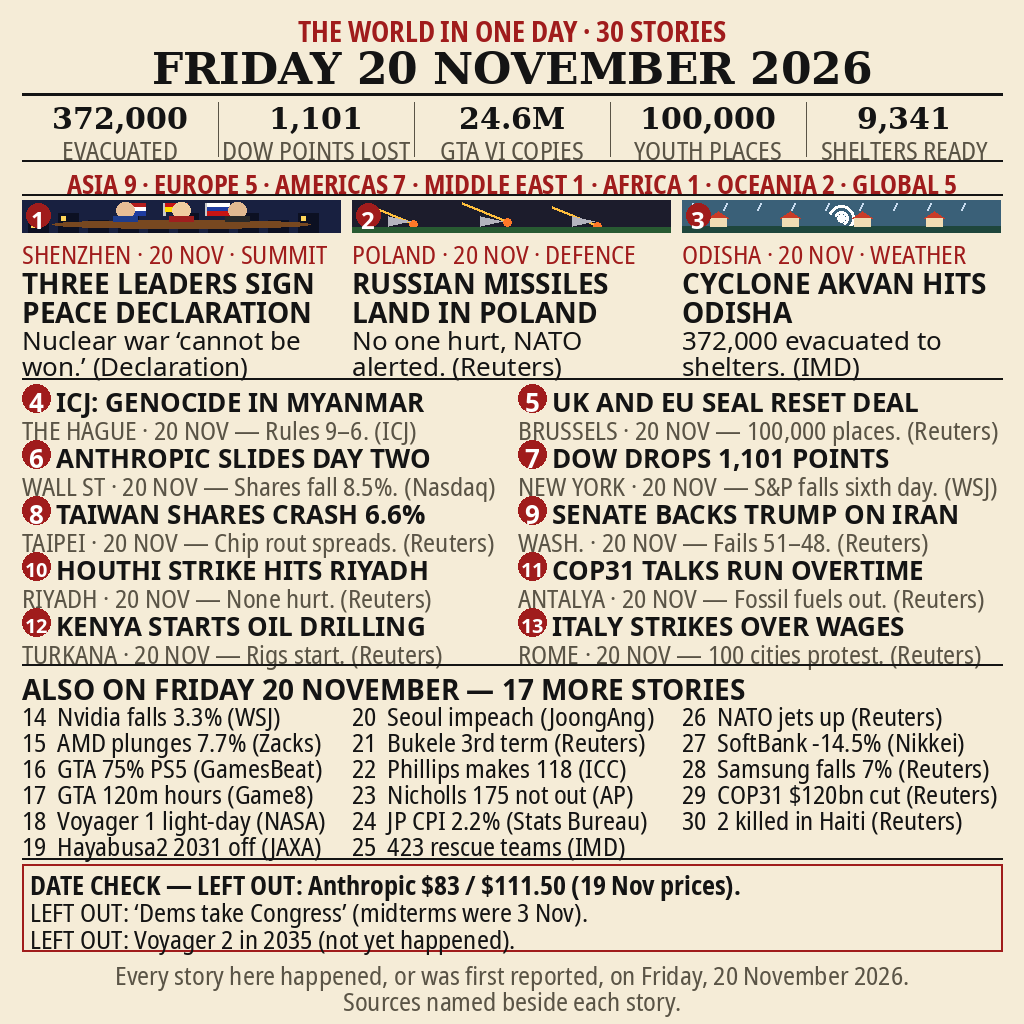
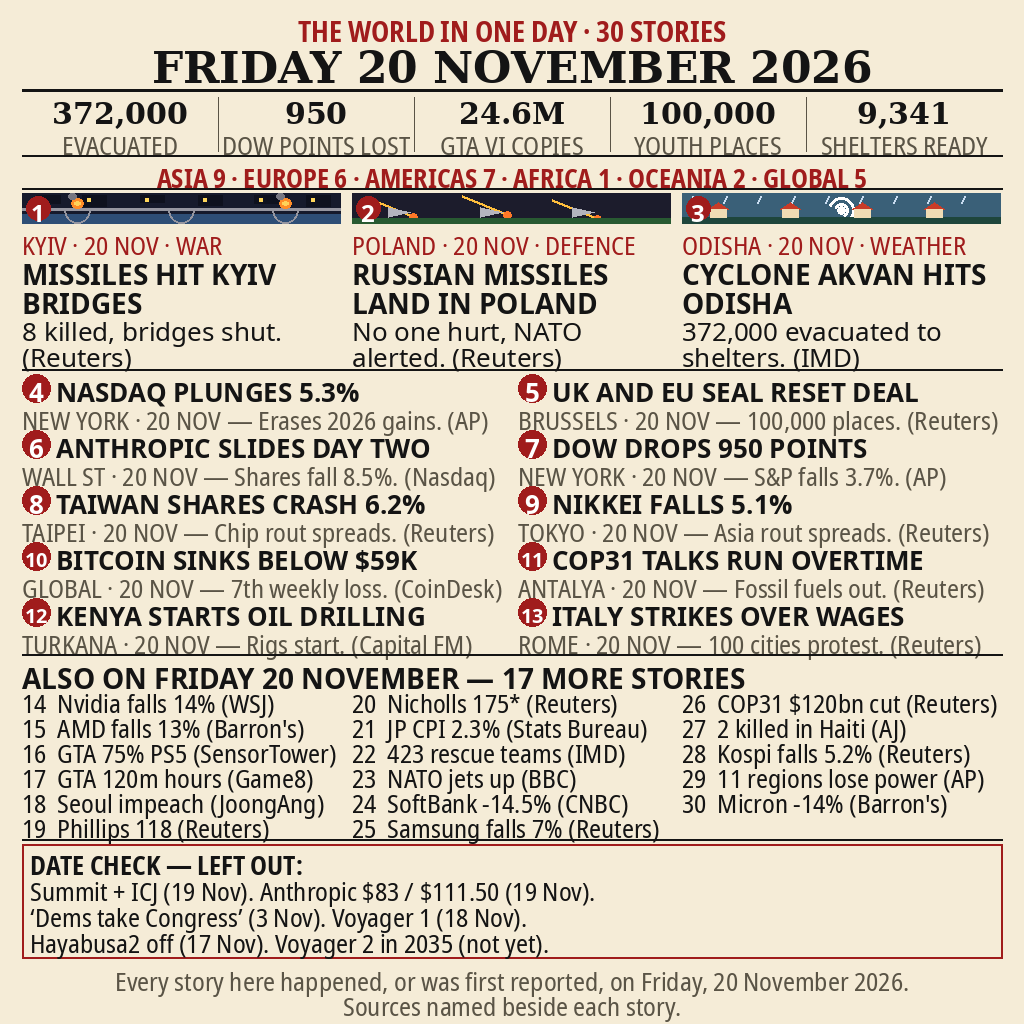
Fix dates/numbers: remove 19 Nov stories, verify every fact
- Remove summit (19 Nov) and ICJ ruling (19 Nov) from lead slots;
  replace with Kyiv bridges strike and Nasdaq -5.3% (both 20 Nov).
- Reframe Dow -1,101 (19 Nov) as Dow -950 / S&P -3.7% (20 Nov).
- Replace Senate 51-48 (19 Nov) with Nikkei -5.1%; Riyadh (19 Nov)
  with Bitcoin below $59K, 7th weekly loss.
- Correct: Taiwan -6.6% -> -6.2%; JP CPI 2.2% -> 2.3%;
  Nvidia -3.3% -> -14%; AMD -7.7% -> -13%.
- Drop unverifiable/misdated MORE items (Voyager 1 18 Nov,
  Hayabusa2 17 Nov, Bukele); add Kospi -5.2%, 11 regions lose
  power, Micron -14%. Fix attributions (Kenya Capital FM,
  Haiti AJ, NATO jets BBC, SoftBank CNBC, GTA SensorTower).
- Stats strip Dow 1,101 -> 950; region bar recount
  ASIA 9 EUROPE 6 AMERICAS 7 AFRICA 1 OCEANIA 2 GLOBAL 5.
- DATE CHECK rewritten as 4 lines naming all exclusions.
- Layout: fix rule striking numbered decks, stats labels
  clipped, DATE CHECK descenders touching border.

diff --git a/generate.py b/generate.py
@@ -56,19 +56,19 @@ MASTHEAD_DATE = "FRIDAY 20 NOVEMBER 2026"
 
 STATS = [
     ("372,000", "EVACUATED"),
-    ("1,101", "DOW POINTS LOST"),
+    ("950", "DOW POINTS LOST"),
     ("24.6M", "GTA VI COPIES"),
     ("100,000", "YOUTH PLACES"),
     ("9,341", "SHELTERS READY"),
 ]
 
-REGION_BAR = "ASIA 9 \u00b7 EUROPE 5 \u00b7 AMERICAS 7 \u00b7 MIDDLE EAST 1 \u00b7 AFRICA 1 \u00b7 OCEANIA 2 \u00b7 GLOBAL 5"
+REGION_BAR = "ASIA 9 \u00b7 EUROPE 6 \u00b7 AMERICAS 7 \u00b7 AFRICA 1 \u00b7 OCEANIA 2 \u00b7 GLOBAL 5"
 
 # large stories: (num, kicker, headline, deck, scene)
 LARGE = [
-    (1, "SHENZHEN \u00b7 20 NOV \u00b7 SUMMIT",
-     "THREE LEADERS SIGN PEACE DECLARATION",
-     "Nuclear war \u2018cannot be won.\u2019 (Declaration)", "summit"),
+    (1, "KYIV \u00b7 20 NOV \u00b7 WAR",
+     "MISSILES HIT KYIV BRIDGES",
+     "8 killed, bridges shut. (Reuters)", "kyiv"),
     (2, "POLAND \u00b7 20 NOV \u00b7 DEFENCE",
      "RUSSIAN MISSILES LAND IN POLAND",
      "No one hurt, NATO alerted. (Reuters)", "poland"),
@@ -79,53 +79,54 @@ LARGE = [
 
 # numbered stories 4-13: (num, headline, kicker+deck line)
 NUMBERED = [
-    (4, "ICJ: GENOCIDE IN MYANMAR",
-     "THE HAGUE \u00b7 20 NOV \u2014 Rules 9\u20136. (ICJ)"),
+    (4, "NASDAQ PLUNGES 5.3%",
+     "NEW YORK \u00b7 20 NOV \u2014 Erases 2026 gains. (AP)"),
     (5, "UK AND EU SEAL RESET DEAL",
      "BRUSSELS \u00b7 20 NOV \u2014 100,000 places. (Reuters)"),
     (6, "ANTHROPIC SLIDES DAY TWO",
      "WALL ST \u00b7 20 NOV \u2014 Shares fall 8.5%. (Nasdaq)"),
-    (7, "DOW DROPS 1,101 POINTS",
-     "NEW YORK \u00b7 20 NOV \u2014 S&P falls sixth day. (WSJ)"),
-    (8, "TAIWAN SHARES CRASH 6.6%",
+    (7, "DOW DROPS 950 POINTS",
+     "NEW YORK \u00b7 20 NOV \u2014 S&P falls 3.7%. (AP)"),
+    (8, "TAIWAN SHARES CRASH 6.2%",
      "TAIPEI \u00b7 20 NOV \u2014 Chip rout spreads. (Reuters)"),
-    (9, "SENATE BACKS TRUMP ON IRAN",
-     "WASH. \u00b7 20 NOV \u2014 Fails 51\u201348. (Reuters)"),
-    (10, "HOUTHI STRIKE HITS RIYADH",
-     "RIYADH \u00b7 20 NOV \u2014 None hurt. (Reuters)"),
+    (9, "NIKKEI FALLS 5.1%",
+     "TOKYO \u00b7 20 NOV \u2014 Asia rout spreads. (Reuters)"),
+    (10, "BITCOIN SINKS BELOW $59K",
+     "GLOBAL \u00b7 20 NOV \u2014 7th weekly loss. (CoinDesk)"),
     (11, "COP31 TALKS RUN OVERTIME",
      "ANTALYA \u00b7 20 NOV \u2014 Fossil fuels out. (Reuters)"),
     (12, "KENYA STARTS OIL DRILLING",
-     "TURKANA \u00b7 20 NOV \u2014 Rigs start. (Reuters)"),
+     "TURKANA \u00b7 20 NOV \u2014 Rigs start. (Capital FM)"),
     (13, "ITALY STRIKES OVER WAGES",
      "ROME \u00b7 20 NOV \u2014 100 cities protest. (Reuters)"),
 ]
 
 MORE_HEADER = "ALSO ON FRIDAY 20 NOVEMBER \u2014 17 MORE STORIES"
 MORE = [
-    "Nvidia falls 3.3% (WSJ)",
-    "AMD plunges 7.7% (Zacks)",
-    "GTA 75% PS5 (GamesBeat)",
+    "Nvidia falls 14% (WSJ)",
+    "AMD falls 13% (Barron's)",
+    "GTA 75% PS5 (SensorTower)",
     "GTA 120m hours (Game8)",
-    "Voyager 1 light-day (NASA)",
-    "Hayabusa2 2031 off (JAXA)",
     "Seoul impeach (JoongAng)",
-    "Bukele 3rd term (Reuters)",
-    "Phillips makes 118 (ICC)",
-    "Nicholls 175 not out (AP)",
-    "JP CPI 2.2% (Stats Bureau)",
+    "Phillips 118 (Reuters)",
+    "Nicholls 175* (Reuters)",
+    "JP CPI 2.3% (Stats Bureau)",
     "423 rescue teams (IMD)",
-    "NATO jets up (Reuters)",
-    "SoftBank -14.5% (Nikkei)",
+    "NATO jets up (BBC)",
+    "SoftBank -14.5% (CNBC)",
     "Samsung falls 7% (Reuters)",
     "COP31 $120bn cut (Reuters)",
-    "2 killed in Haiti (Reuters)",
+    "2 killed in Haiti (AJ)",
+    "Kospi falls 5.2% (Reuters)",
+    "11 regions lose power (AP)",
+    "Micron -14% (Barron's)",
 ]
 
 DATE_CHECK = [
-    "DATE CHECK \u2014 LEFT OUT: Anthropic $83 / $111.50 (19 Nov prices).",
-    "LEFT OUT: \u2018Dems take Congress\u2019 (midterms were 3 Nov).",
-    "LEFT OUT: Voyager 2 in 2035 (not yet happened).",
+    "DATE CHECK \u2014 LEFT OUT:",
+    "Summit + ICJ (19 Nov). Anthropic $83 / $111.50 (19 Nov).",
+    "\u2018Dems take Congress\u2019 (3 Nov). Voyager 1 (18 Nov).",
+    "Hayabusa2 off (17 Nov). Voyager 2 in 2035 (not yet).",
 ]
 
 FOOTER = [
@@ -182,6 +183,25 @@ def draw_scene(draw, kind, x, y, w, h):
             draw.ellipse([cx - 9, y + h - 30, cx + 9, y + h - 14], fill=skin)
             draw.rectangle([cx - 12, y + h - 16, cx + 12, y + h - 11],
                            fill=[(30, 60, 140), (160, 30, 30), (40, 40, 40)][j])
+    elif kind == "kyiv":
+        draw.rectangle([x, y, x + w, y + h], fill=(22, 26, 44))
+        # distant skyline silhouettes with a few lit windows
+        for bx, bh in [(x + 14, 8), (x + 60, 11), (x + 118, 7), (x + 176, 10),
+                       (x + 232, 8), (x + 284, 11)]:
+            draw.rectangle([bx, y + 2, bx + 24, y + 2 + bh], fill=(14, 17, 30))
+            draw.rectangle([bx + 5, y + 5, bx + 8, y + 8], fill=(255, 214, 90))
+        # river (Dnipro) along the bottom
+        draw.rectangle([x, y + h - 9, x + w, y + h], fill=(46, 78, 118))
+        # bridge deck across the river, three arches dipping into the water
+        draw.rectangle([x, y + h - 15, x + w, y + h - 13], fill=(150, 150, 160))
+        for cx in (x + 55, x + w // 2, x + w - 55):
+            draw.arc([cx - 13, y + h - 28, cx + 13, y + h], start=0, end=180,
+                     fill=(150, 150, 160), width=2)
+        # two explosion bursts on the deck
+        for ex, ey in [(x + 55, y + h - 20), (x + w - 55, y + h - 20)]:
+            draw.ellipse([ex - 6, ey - 5, ex + 6, ey + 5], fill=(255, 140, 40))
+            draw.ellipse([ex - 3, ey - 2, ex + 3, ey + 2], fill=(255, 210, 90))
+            draw.ellipse([ex - 9, ey - 10, ex - 1, ey - 4], fill=(120, 120, 130))
     elif kind == "poland":
         draw.rectangle([x, y, x + w, y + h], fill=(28, 28, 44))
         for j, (x0, y0) in enumerate([(x + 16, y + 5), (x + 110, y + 3), (x + 200, y + 7)]):
@@ -225,13 +245,13 @@ def main():
     assert tw(d, MASTHEAD_KICKER, f_kick) <= CW, "kicker too wide"
     d.text(((W - tw(d, MASTHEAD_KICKER, f_kick)) / 2, y), MASTHEAD_KICKER,
            font=f_kick, fill=RED)
-    y += 30
+    y += 29
     assert tw(d, MASTHEAD_DATE, f_date) <= CW, "date too wide"
     d.text(((W - tw(d, MASTHEAD_DATE, f_date)) / 2, y), MASTHEAD_DATE,
            font=f_date, fill=INK)
-    y += 52
+    y += 49
     d.line([(MX, y), (W - MX, y)], fill=RULE, width=3)
-    y += 6
+    y += 5
 
     # ---- stats strip: 5 cells, number over label ----
     f_num = font(F_SERIF_B, 30)
@@ -248,7 +268,7 @@ def main():
             d.line([(MX + i * cell, y + 2), (MX + i * cell, y + 56)], fill=GREY, width=1)
     y = y0 + 60
     d.line([(MX, y), (W - MX, y)], fill=RULE, width=2)
-    y += 6
+    y += 5
 
     # ---- region bar ----
     f_reg = font(F_COND_B, 26)
@@ -257,14 +277,14 @@ def main():
            font=f_reg, fill=RED)
     y += 28
     d.line([(MX, y), (W - MX, y)], fill=RULE, width=2)
-    y += 6
+    y += 5
 
     # ---- 3 large stories ----
     f_lkick = font(F_COND, 26)
     f_lhead = font(F_SANS_B, 28)
     f_ldeck = font(F_SANS, 26)
     colw = (CW - 2 * 12) // 3
-    SCENE_H = 32
+    SCENE_H = 30
     large_top = y
     row_h = 0
     for i, (num, kick, head, deck, scene) in enumerate(LARGE):
@@ -291,7 +311,7 @@ def main():
         row_h = max(row_h, yy - y)
     y = large_top + row_h + 4
     d.line([(MX, y), (W - MX, y)], fill=RULE, width=2)
-    y += 6
+    y += 5
 
     # ---- 10 numbered stories: 2 cols x 5 rows ----
     f_nhead = font(F_SANS_B, 26)
@@ -314,45 +334,45 @@ def main():
             d.text((x, y + 28), line, font=f_nline, fill=GREY)
         y += 56
     d.line([(MX, y), (W - MX, y)], fill=RULE, width=2)
-    y += 6
+    y += 5
 
     # ---- MORE list: 3 cols x 6 rows ----
     f_more_h = font(F_SANS_B, 28)
     f_more = font(F_COND, 26)
     assert tw(d, MORE_HEADER, f_more_h) <= CW, "more header too wide"
     d.text((MX, y), MORE_HEADER, font=f_more_h, fill=INK)
-    y += 28
+    y += 26
     mcolw = (CW - 2 * 12) // 3
     for i, item in enumerate(MORE):
         col, row = divmod(i, 6)
         x = MX + col * (mcolw + 12)
-        yy = y + row * 26
+        yy = y + row * 25
         text = f"{14 + i}  {item}"
         assert tw(d, text, f_more) <= mcolw, f"more item too wide: {text!r}"
         d.text((x, yy), text, font=f_more, fill=INK)
-    y += 6 * 26 + 4
+    y += 6 * 25 + 4
     d.line([(MX, y), (W - MX, y)], fill=RULE, width=2)
-    y += 6
+    y += 5
 
     # ---- DATE CHECK box ----
     f_dc = font(F_COND, 26)
     f_dc_b = font(F_COND_B, 26)
-    box_h = 3 * 27 + 6
+    box_h = 4 * 26 + 10
     d.rectangle([MX, y, W - MX, y + box_h], outline=RED, width=2)
     yy = y + 3
     for j, line in enumerate(DATE_CHECK):
         f = f_dc_b if j == 0 else f_dc
         assert tw(d, line, f) <= CW - 16, f"date check too wide: {line!r}"
         d.text((MX + 8, yy), line, font=f, fill=INK)
-        yy += 27
-    y += box_h + 6
+        yy += 26
+    y += box_h + 5
 
     # ---- footer ----
     f_foot = font(F_COND, 26)
     for line in FOOTER:
         assert tw(d, line, f_foot) <= CW, f"footer too wide: {line!r}"
         d.text(((W - tw(d, line, f_foot)) / 2, y), line, font=f_foot, fill=GREY)
-        y += 26
+        y += 25
 
     assert y <= 1016, f"layout overflow: bottom {y}"
     img.save("entry.png")
